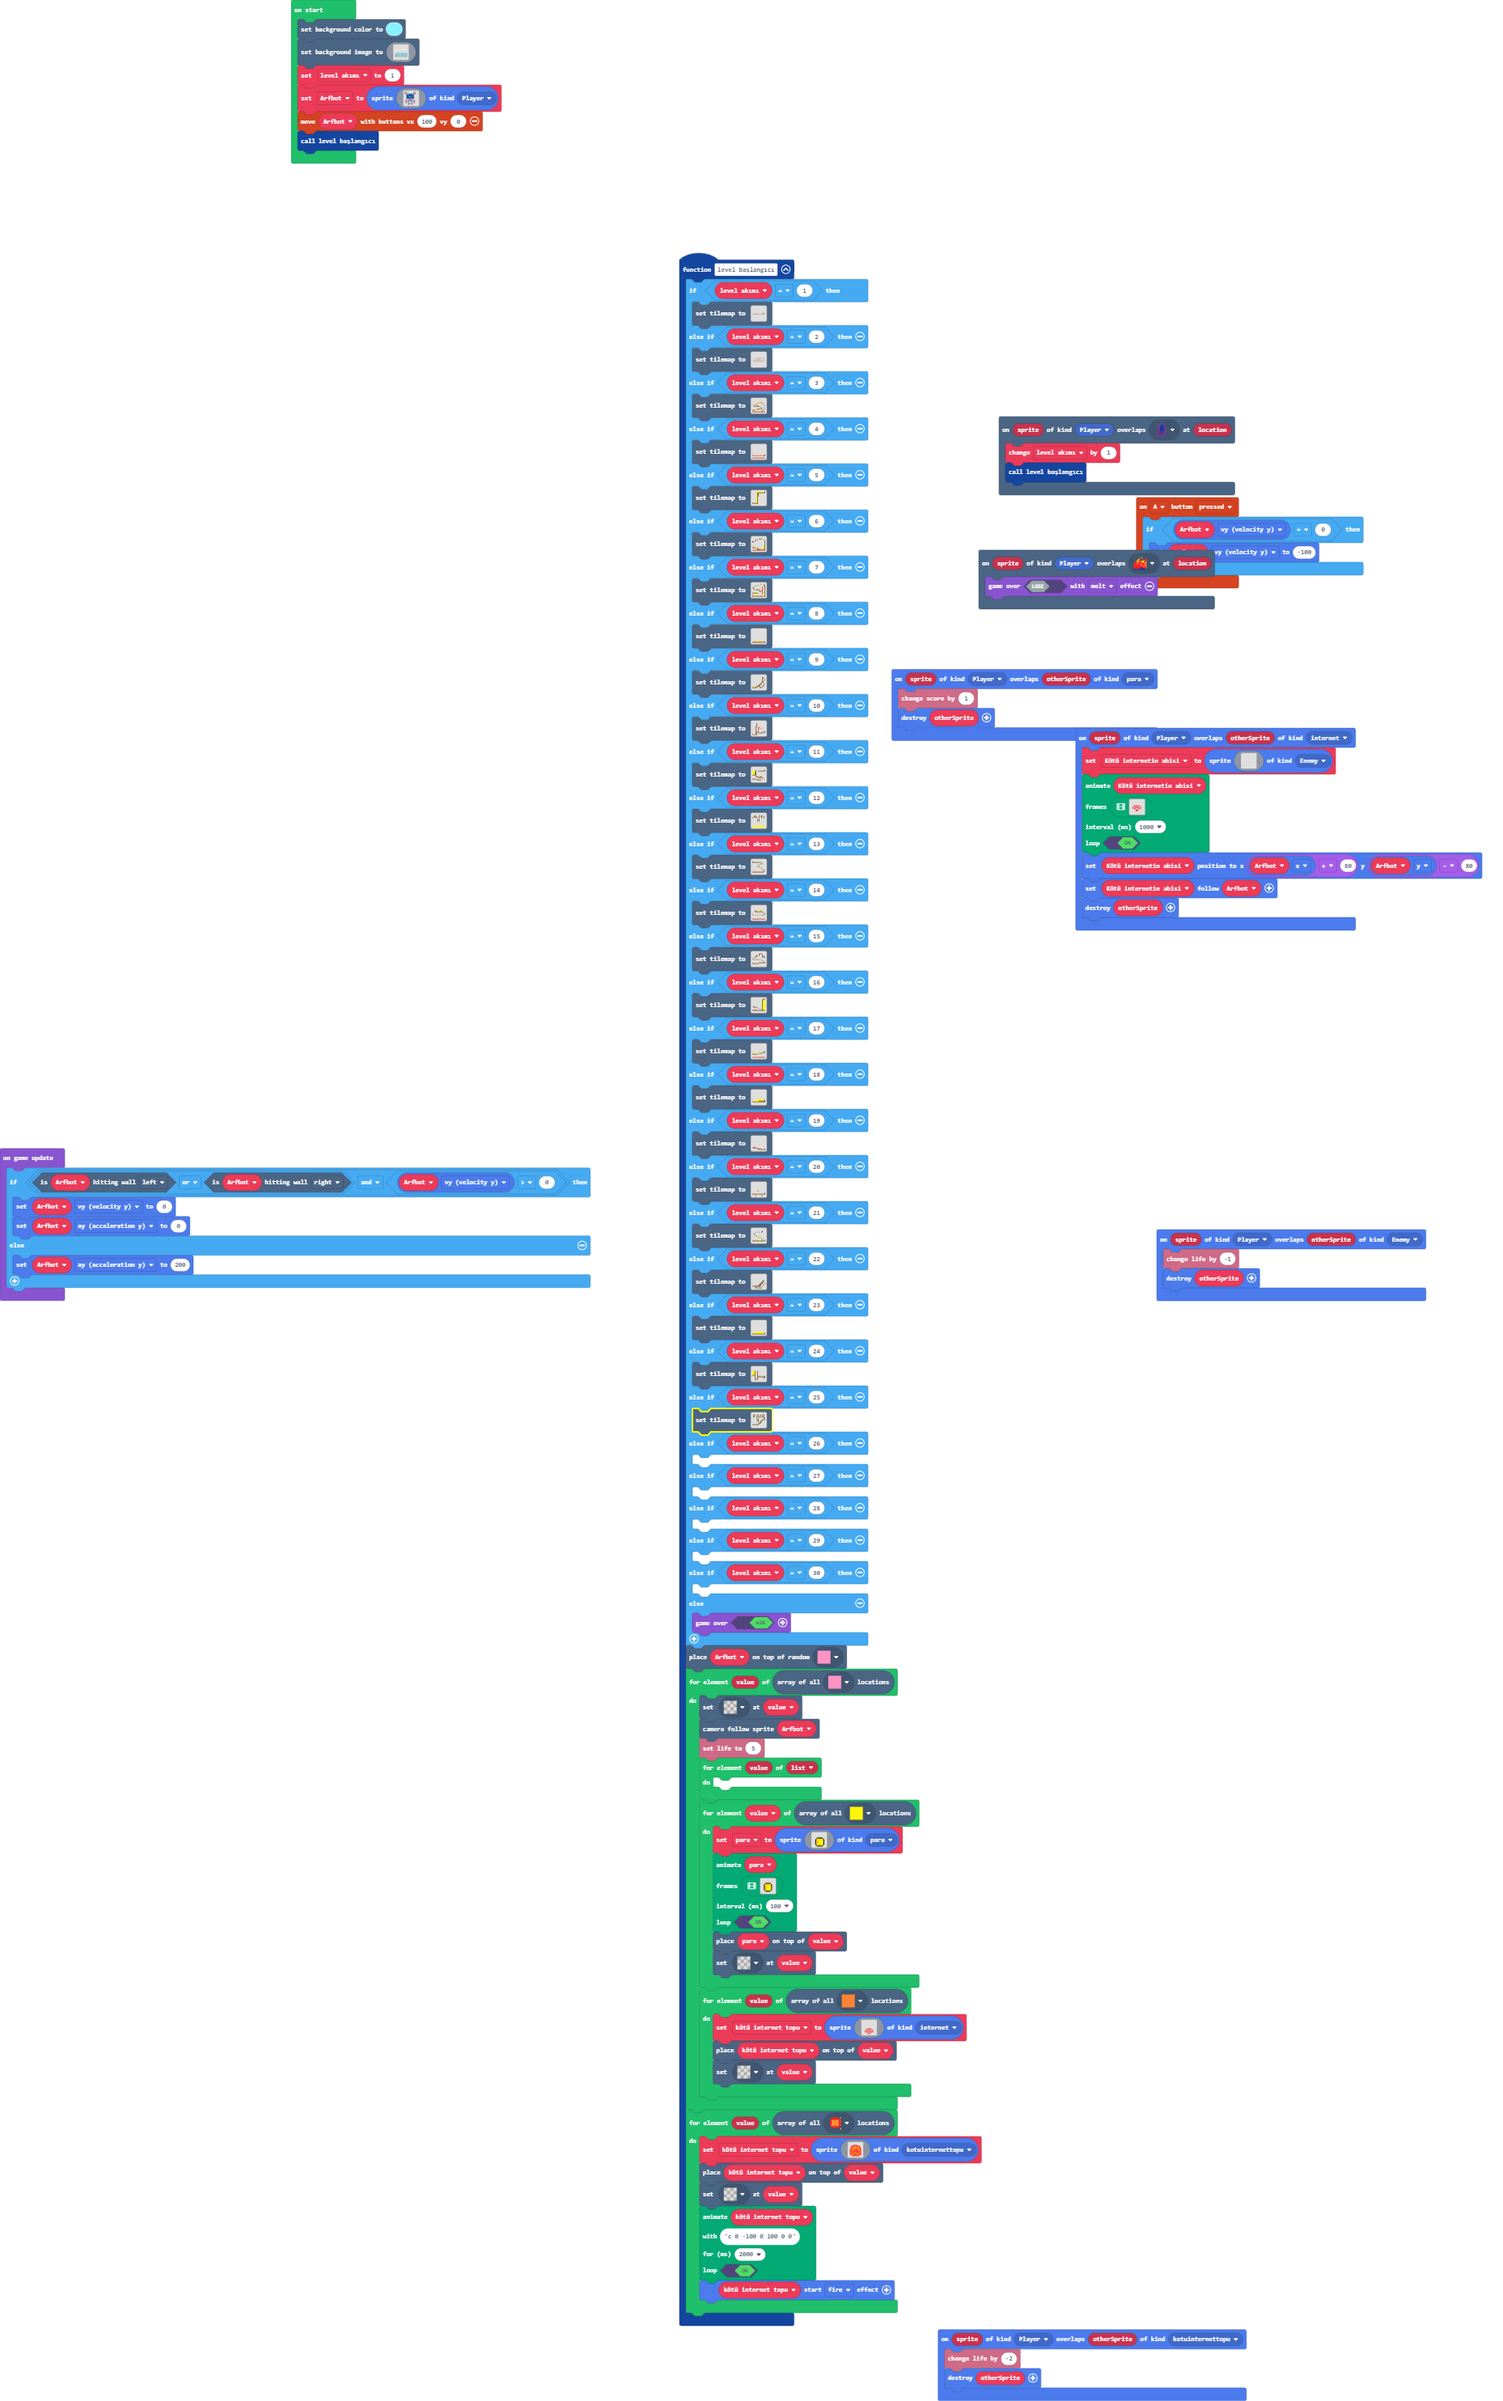
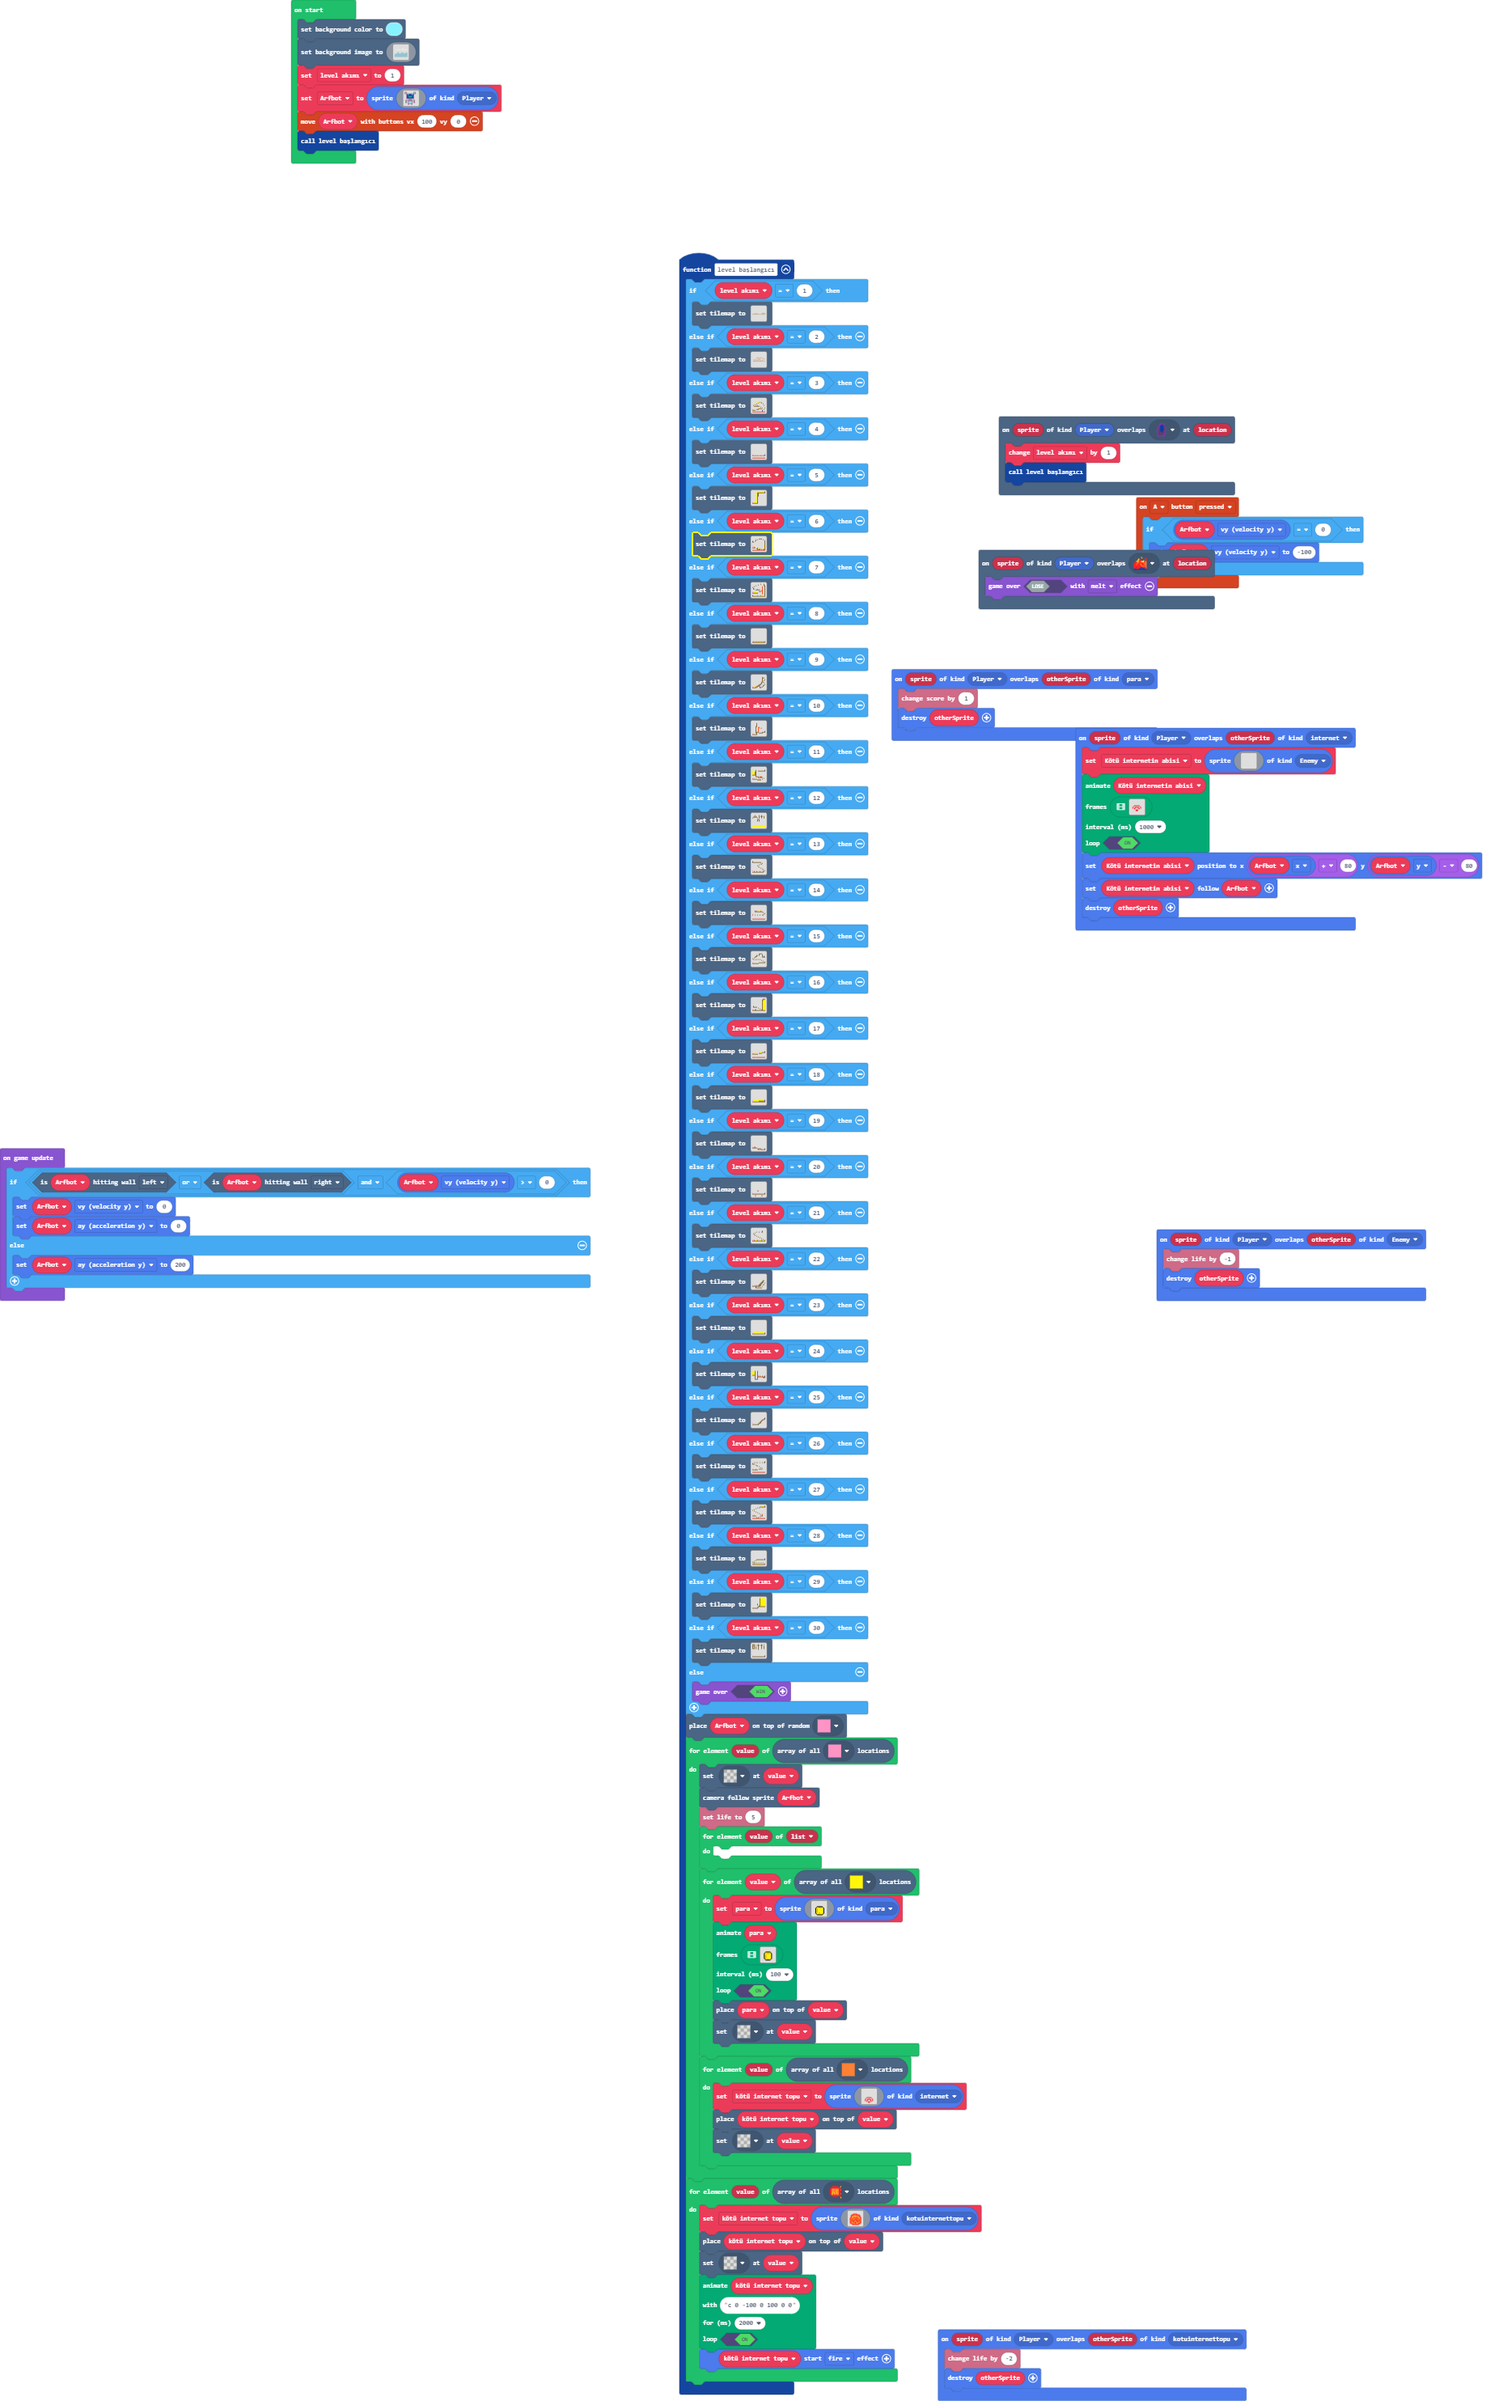
Update main.blocks, main.ts, tilemap.g.jres, tilemap.g.ts

Changed region(s): [[0.437, 0.5889, 0.6555, 1.0]]

diff --git a/tilemap.g.ts b/tilemap.g.ts
@@ -776,25 +776,6 @@ namespace myTiles {
 . . . . . . . . . . . . 2 . . . 
 . . . . . . . . . . . . . . . . 
 `, [myTiles.transparency16,myTiles.tile1,myTiles.tile4,myTiles.tile5,myTiles.tile7,myTiles.tile9,myTiles.tile10], TileScale.Sixteen);
-            case "level9":
-            case "level9":return tiles.createTilemap(hex`1000100000000000000000000000000000000000000000000000000000000000000000000000000000000000000000000000000000000000000000000000000000000000000000000000000000000000000000000000000000000000000000000000000000000000000000000000000000000000000000000000000000000000000000000500000000000000000000000000000000000000000000000000000000000000000000000000000000000000000000000500000000000000000000000000000301040401040401040404010404010401000000000000000000000000000000000000000000000000000000000000000002020202020202020202020202020202`, img`
-. . . . . . . . . . . . . . . . 
-. . . . . . . . . . . . . . . . 
-. . . . . . . . . . . . . . . . 
-. . . . . . . . . . . . . . . . 
-. . . . . . . . . . . . . . . . 
-. . . . . . . . . . . . . . . . 
-. . . . . . . . . . . . . . . . 
-. . . . . . . . . . . . . . . . 
-. . . . . . . . . . . . . . . . 
-. . . . . . . . . . . . . . . . 
-. . . . . . . . . . . . . . . . 
-. . . . . . . . . . . . . . . . 
-2 . . 2 . . 2 . . . 2 . . 2 . 2 
-. . . . . . . . . . . . . . . . 
-. . . . . . . . . . . . . . . . 
-. . . . . . . . . . . . . . . . 
-`, [myTiles.transparency16,myTiles.tile1,myTiles.tile4,myTiles.tile5,myTiles.tile9,myTiles.tile10], TileScale.Sixteen);
             case "level11":
             case "level11":return tiles.createTilemap(hex`1000100000000000000000000000000000000000000000000000000001010101000400000000000007000100000000000001000000000000010000000000000000000001030000010000000000000000000000010101000000000000000000000000000100000000000000000000000000000001000000000000000000000000000000010000000000000000000000000000000100000000000000000000000000000401060000000000000000000000000004010004050400000000000000000000040101010101000405000000000000000401000000000001010400050004000400010000000000000101010100010001070102020202020202020202020202020202`, img`
 . . . . . . . . . . . . . . . . 
@@ -1365,8 +1346,103 @@ namespace myTiles {
 2 2 2 2 2 2 2 2 2 2 2 2 2 2 2 2 
 . . . . . . . 2 2 2 2 2 2 . . . 
 `, [myTiles.transparency16,myTiles.tile1,myTiles.tile5,myTiles.tile7,myTiles.tile10,myTiles.tile11], TileScale.Sixteen);
+            case "level68":
+            case "level68":return tiles.createTilemap(hex`1000100000000000000000000000000000000000000000000000000000000000000000000000000000000000000000000000000300000100010001000001000001000101010000000000000000000000000000000101010000000000000000000000000000000000010000000000000000000000000000000001010000000000000000000000000000000000010000000000000000000000000000000000010000000000000000000000000000000000010000000500000004000000010101010000000001010101010101000000000000000000000000000000000000000000000000000000000000000000000000000000000002020202020202020202020202020202`, img`
+. . . . . . . . . . . . . . . . 
+. . . . . . . . . . . . . . . . 
+. . . . . . . . . . . . . . . . 
+. . 2 . 2 . 2 . . 2 . . 2 . 2 2 
+2 . . . . . . . . . . . . . . . 
+2 2 2 . . . . . . . . . . . . . 
+. . . . 2 . . . . . . . . . . . 
+. . . . . 2 2 . . . . . . . . . 
+. . . . . . . . 2 . . . . . . . 
+. . . . . . . . . . 2 . . . . . 
+. . . . . . . . . . . . 2 . . . 
+. . . . . . . . 2 2 2 2 . . . . 
+2 2 2 2 2 2 2 . . . . . . . . . 
+. . . . . . . . . . . . . . . . 
+. . . . . . . . . . . . . . . . 
+. . . . . . . . . . . . . . . . 
+`, [myTiles.transparency16,myTiles.tile1,myTiles.tile4,myTiles.tile5,myTiles.tile9,myTiles.tile10], TileScale.Sixteen);
             case "level67":
-            case "level67":return tiles.createTilemap(hex`1000100000000000000000000000000000010000000100010000010100000100010001000001010000010000010001000100010000010100000100000100010001010100000100000001010101000100010001000000000000000000000000000000000200000000000100010000000000000101000000000001010100000000010101000000000000000001000000010100000000000000000001010000010100000000000000000000000000010100000000000000000000000000010101000000000000000000000000010100000000000000010101010101010100000000000000000000000000000000000000000000000000000000000000000000000000000000`, img`
+            case "level67":return tiles.createTilemap(hex`1000100000000000000000000000000000000000000000000000000000000000000000000000000000000000000000000000000000000000000000000000000000000000000000000000000000000000000000000000000000000000000000000000000200000000000000000000000000000101000000000000000000000000010101000000000000000000000000010100000000000000000000000000010100000000000000000000000000010100000000000300000000000000010101000000000000000000000000010100000000000000010101010101010100000000000000000000000000000000000000000000000000000000000000000000000000000000`, img`
+. . . . . . . . . . . . . . . . 
+. . . . . . . . . . . . . . . . 
+. . . . . . . . . . . . . . . . 
+. . . . . . . . . . . . . . . . 
+. . . . . . . . . . . . . . . . 
+. . . . . . . . . . . . . . . . 
+. . . . . . . . . . . . . . 2 2 
+. . . . . . . . . . . . 2 2 2 . 
+. . . . . . . . . . . 2 2 . . . 
+. . . . . . . . . . 2 2 . . . . 
+. . . . . . . . . 2 2 . . . . . 
+. . . . . . . . 2 2 2 . . . . . 
+. . . . . . . 2 2 2 . . . . . . 
+2 2 2 2 2 2 2 2 . . . . . . . . 
+. . . . . . . . . . . . . . . . 
+. . . . . . . . . . . . . . . . 
+`, [myTiles.transparency16,myTiles.tile1,myTiles.tile5,myTiles.tile10], TileScale.Sixteen);
+            case "level69":
+            case "level69":return tiles.createTilemap(hex`1000100000000000000000000000000404040403000000000000000000010101010101010000000000000100010000000000000000000000010000000000000000000000000001000000000000000000000000000100000000000000000000000000000000000100000000000000000000000000000000000100000000000000000000000000000000000100000000000000000000000000000000000100000000000000000000000000000000000100070000000600050000000000000000000100000001010101010000000000010101000000000000000000000000010000000000000000000000010001000000000000000002020202020202020202020202020202`, img`
+. . . . . . . . . . . . . . . . 
+. . . . . . . . . 2 2 2 2 2 2 2 
+. . . . . . 2 . 2 . 2 . . . . . 
+. . . . 2 . . . . . . . . . . . 
+. . 2 . . . . . . . . . . . . . 
+2 . . . . . . . . . . . . . . . 
+. . 2 . . . . . . . . . . . . . 
+. . . . 2 . . . . . . . . . . . 
+. . . . . . 2 . . . . . . . . . 
+. . . . . . . . 2 . . . . . . . 
+. . . . . . . . . . 2 . . . . . 
+. . . . . . . . . . . . 2 2 . . 
+2 2 2 2 2 . . . . . 2 2 2 2 . . 
+. . . . . . . . . 2 . . . . . . 
+. . . . . 2 . 2 . . . . . . . . 
+. . . . . . . . . . . . . . . . 
+`, [myTiles.transparency16,myTiles.tile1,myTiles.tile4,myTiles.tile5,myTiles.tile7,myTiles.tile9,myTiles.tile10,myTiles.tile11], TileScale.Sixteen);
+            case "level70":
+            case "level70":return tiles.createTilemap(hex`1000100000000000000000000000000000000000000000000000000000000000000000000000000000000000000000000000000000000000000000000000000000000000000000000000000000000000000000000000000000000000000000000000000000000000000000000000000000000000000000000000000000000000000000000000000000000000000000000000000200000000000101010101010101010101000000000100000000000000000000000000010000000000000000000000000001000000000000000000000000000000000101010001000100010001000100000400000303030303030300000000000101010101010101010101010101010101`, img`
+. . . . . . . . . . . . . . . . 
+. . . . . . . . . . . . . . . . 
+. . . . . . . . . . . . . . . . 
+. . . . . . . . . . . . . . . . 
+. . . . . . . . . . . . . . . . 
+. . . . . . . . . . . . . . . . 
+. . . . . . . . . . . . . . . . 
+. . . . . . . . . . . . . . . . 
+. . . . . . . . . . . . . . . . 
+. . . . . 2 2 2 2 2 2 2 2 2 2 2 
+. . . . 2 . . . . . . . . . . . 
+. . 2 . . . . . . . . . . . . . 
+2 . . . . . . . . . . . . . . . 
+. 2 2 2 . 2 . 2 . 2 . 2 . 2 . . 
+. . . . . . . . . . . . . . . 2 
+2 2 2 2 2 2 2 2 2 2 2 2 2 2 2 2 
+`, [myTiles.transparency16,myTiles.tile1,myTiles.tile5,myTiles.tile7,myTiles.tile10], TileScale.Sixteen);
+            case "level71":
+            case "level71":return tiles.createTilemap(hex`1000100000000000000000000001030303030303000000000000000000010303030303030000000000000000000103030303030300000000000000000001030303030303000000000000000000010303030303030000000000000000000103030303030300000000000000000001030303030303000000000000020000010303030303030000000000000100000103030303030300000000000000000101030303030303000000000000000101010101010101010000000000000101000000000000000001010101010101000000000000000000000000000000000000000000000000000000000000000000000000000000000000000000000000000000000000000000`, img`
+. . . . . . . . . . . . . . . . 
+. . . . . . . . . . . . . . . . 
+. . . . . . . . . . . . . . . . 
+. . . . . . . . . . . . . . . . 
+. . . . . . . . . . . . . . . . 
+. . . . . . . . . . . . . . . . 
+. . . . . . . . . . . . . . . . 
+. . . . . . . . . . . . . . . . 
+. . . . . . 2 . . . . . . . . . 
+. . . . . . . . 2 2 . . . . . . 
+. . . . . . . 2 2 2 2 2 2 2 2 2 
+. . . . . . 2 2 . . . . . . . . 
+2 2 2 2 2 2 2 . . . . . . . . . 
+. . . . . . . . . . . . . . . . 
+. . . . . . . . . . . . . . . . 
+. . . . . . . . . . . . . . . . 
+`, [myTiles.transparency16,myTiles.tile1,myTiles.tile5,myTiles.tile7], TileScale.Sixteen);
+            case "level72":
+            case "level72":return tiles.createTilemap(hex`1000100001010100000000010000000100000100010001000100010101000101010000000101010000000001000000010000010001000100010000010000000100000100010001000100000100000001000001000101010001000001000000010000010000000000000000010000000000000000000000000000000000000000000000000000000000000000000000000000000000000000000000000000000000000000000000000000000000000000000000000000000000000000000000000000000000000000000000000000000000000000000000000000000000000000000000000300000000000000000000000000000201010101010101010101010101010101`, img`
 . . . . . . . . . . . . . . . . 
 . . . . . . . . . . . . . . . . 
 . . . . . . . . . . . . . . . . 
@@ -1382,8 +1458,27 @@ namespace myTiles {
 . . . . . . . . . . . . . . . . 
 . . . . . . . . . . . . . . . . 
 . . . . . . . . . . . . . . . . 
+2 2 2 2 2 2 2 2 2 2 2 2 2 2 2 2 
+`, [myTiles.transparency16,myTiles.tile1,myTiles.tile5,myTiles.tile10], TileScale.Sixteen);
+            case "level9":
+            case "level9":return tiles.createTilemap(hex`1000100000000000000000000000000000000000000000000000000000000000000000000000000000000000000000000000000000000000000000000000000000000000000000000000000000000000000000000000000000000000000000000000000000000000000000000000000000000000000000000000000000000000000000000000000000000000000000000000000000000000000000000000000000000000000000000000000000000000000000000500000000000000000000000000000301040401040401040404010404010401000000000000000000000000000000000000000000000000000000000000000002020202020202020202020202020202`, img`
 . . . . . . . . . . . . . . . . 
-`, [myTiles.transparency16,myTiles.tile1,myTiles.tile5], TileScale.Sixteen);
+. . . . . . . . . . . . . . . . 
+. . . . . . . . . . . . . . . . 
+. . . . . . . . . . . . . . . . 
+. . . . . . . . . . . . . . . . 
+. . . . . . . . . . . . . . . . 
+. . . . . . . . . . . . . . . . 
+. . . . . . . . . . . . . . . . 
+. . . . . . . . . . . . . . . . 
+. . . . . . . . . . . . . . . . 
+. . . . . . . . . . . . . . . . 
+. . . . . . . . . . . . . . . . 
+2 . . 2 . . 2 . . . 2 . . 2 . 2 
+. . . . . . . . . . . . . . . . 
+. . . . . . . . . . . . . . . . 
+. . . . . . . . . . . . . . . . 
+`, [myTiles.transparency16,myTiles.tile1,myTiles.tile4,myTiles.tile5,myTiles.tile9,myTiles.tile10], TileScale.Sixteen);
         }
         return null;
     })

diff --git a/main.ts b/main.ts
@@ -62,15 +62,15 @@ function level_başlangıcı () {
     } else if (level_akımı == 25) {
         tiles.setTilemap(tilemap`level67`)
     } else if (level_akımı == 26) {
-    	
+        tiles.setTilemap(tilemap`level68`)
     } else if (level_akımı == 27) {
-    	
+        tiles.setTilemap(tilemap`level69`)
     } else if (level_akımı == 28) {
-    	
+        tiles.setTilemap(tilemap`level70`)
     } else if (level_akımı == 29) {
-    	
+        tiles.setTilemap(tilemap`level71`)
     } else if (level_akımı == 30) {
-    	
+        tiles.setTilemap(tilemap`level72`)
     } else {
         game.over(true)
     }
